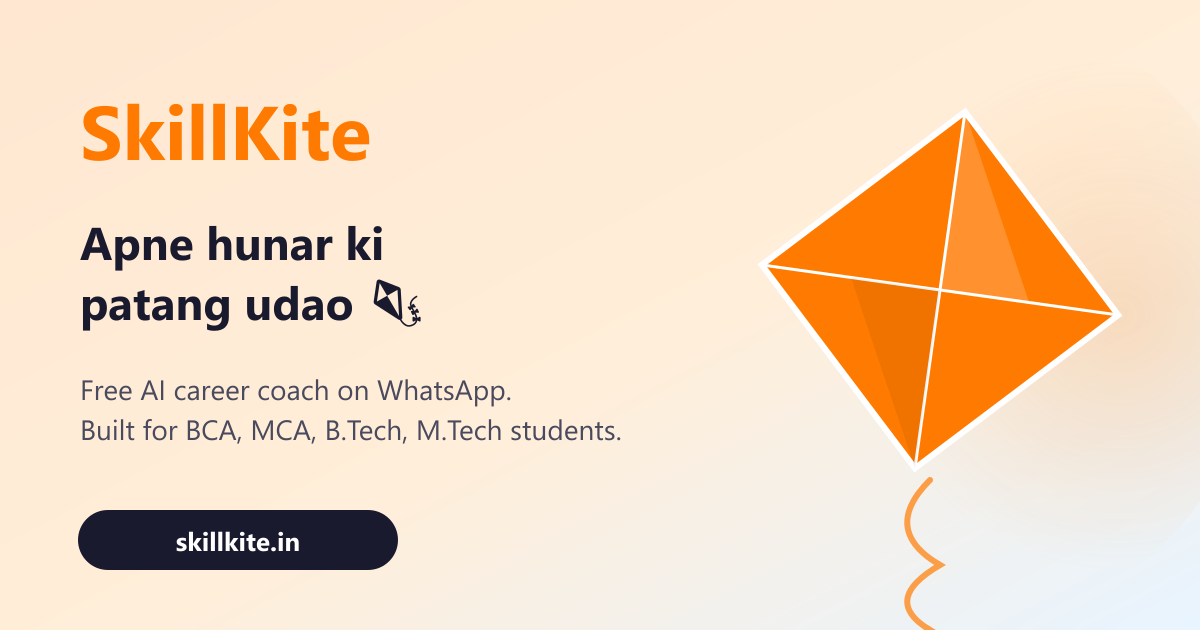
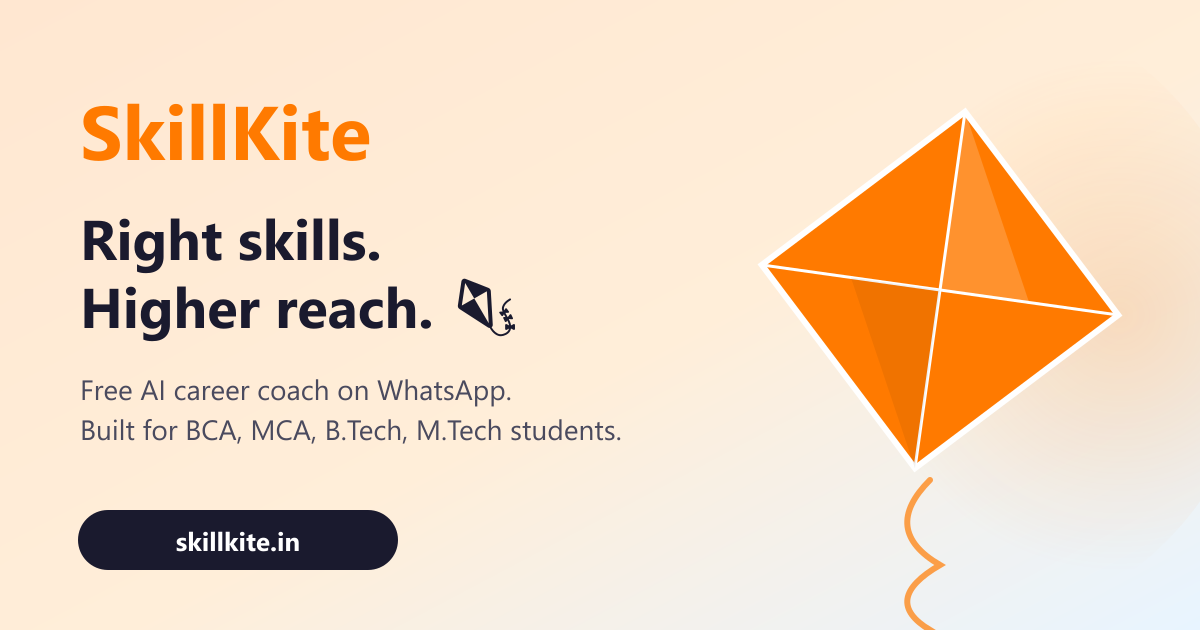
New primary tagline: 'Right skills. Higher reach.'
Three-word English tagline replaces 'Apne hunar ki patang udao' as the
brand hook. Reasoning:
- Punchy, symmetric, infinitely repeatable
- Travels across language belts (not just Hindi-speaking states)
- Reads polished in LinkedIn posts, press, CSR/B2B decks
- The kite metaphor stays implicit via existing logo + OG art

Touched:
- site/index.html: hero h1 + page title + OG meta + Twitter meta
- site/og-image.svg: tagline lines + bumped font size for the shorter copy
- site/og-image.png: regenerated 1200x630 (via sharp-cli)
- site/sample-roadmap-{en,hi}.pdf: regenerated so the PDF header subtitle
  matches the new tagline
- src/SkillKite.Infrastructure/PDF/RoadmapPdfGenerator.cs: header subtitle
- README.md: header + closing flourish
- content/linkedin-post-1.md: closing sign-off

'Apne hunar ki patang udao' is retired from primary surfaces but kept
in spirit via the kite logo and the bot's Hinglish voice. It may return
as a decorative italic accent later.

Changed region(s): [[0.0617, 0.3317, 0.4317, 0.5429]]

diff --git a/site/index.html b/site/index.html
@@ -5,23 +5,23 @@
   <meta name="viewport" content="width=device-width, initial-scale=1.0" />
   <meta name="theme-color" content="#FF7A00" />
 
-  <title>SkillKite — AI Career Coach for Indian Students</title>
-  <meta name="description" content="Free AI career coach in Hindi + English. Get a personalized career roadmap on WhatsApp in 5 minutes. Built for BCA, MCA, and Tier 2/3 students." />
+  <title>SkillKite — Right skills. Higher reach.</title>
+  <meta name="description" content="Right skills. Higher reach. Free AI career coach on WhatsApp, in Hindi and English. Personalized roadmap in 5 minutes — built for BCA, MCA, B.Tech, M.Tech students from Tier 2/3 cities." />
 
   <!-- Open Graph / social previews
        Image is a 1200x630 PNG generated from og-image.svg.
        Until skillkite.in DNS propagates we point at the pages.dev mirror so
        LinkedIn/WhatsApp/Twitter crawlers can actually fetch the assets. -->
-  <meta property="og:title" content="SkillKite — Apne hunar ki patang udao" />
+  <meta property="og:title" content="SkillKite — Right skills. Higher reach." />
   <meta property="og:description" content="Free AI career coach on WhatsApp for BCA, MCA, B.Tech, M.Tech students. Personalized career roadmap in 5 minutes." />
   <meta property="og:type" content="website" />
   <meta property="og:url" content="https://skillkite.in" />
   <meta property="og:image" content="https://skillkite.in/og-image.png" />
   <meta property="og:image:width" content="1200" />
   <meta property="og:image:height" content="630" />
-  <meta property="og:image:alt" content="SkillKite — free AI career coach on WhatsApp" />
+  <meta property="og:image:alt" content="SkillKite — Right skills. Higher reach." />
   <meta name="twitter:card" content="summary_large_image" />
-  <meta name="twitter:title" content="SkillKite — Apne hunar ki patang udao" />
+  <meta name="twitter:title" content="SkillKite — Right skills. Higher reach." />
   <meta name="twitter:description" content="Free AI career coach on WhatsApp for BCA, MCA, B.Tech, M.Tech students." />
   <meta name="twitter:image" content="https://skillkite.in/og-image.png" />
 
@@ -55,12 +55,12 @@
   <section class="hero">
     <div class="hero-inner">
       <h1>
-        <span data-en>Apne hunar ki patang udao 🪁</span>
-        <span data-hi>अपने हुनर की पतंग उड़ाओ 🪁</span>
+        <span data-en>Right skills. Higher reach. 🪁</span>
+        <span data-hi>सही skills। ऊँची उड़ान। 🪁</span>
       </h1>
       <p class="lede">
-        <span data-en>Free AI career coach on WhatsApp. Built for BCA, MCA, and small-city students. Get a personalized career roadmap in 5 minutes.</span>
-        <span data-hi>WhatsApp पर मुफ़्त AI करियर कोच। BCA, MCA और छोटे शहरों के स्टूडेंट्स के लिए। 5 मिनट में पाओ अपना personalized career roadmap।</span>
+        <span data-en>Free AI career coach on WhatsApp. Built for BCA, MCA, B.Tech, M.Tech students from small cities. Get a personalized career roadmap in 5 minutes.</span>
+        <span data-hi>WhatsApp पर मुफ़्त AI career coach। छोटे शहरों के BCA, MCA, B.Tech, M.Tech students के लिए। 5 मिनट में पाओ अपना personalized career roadmap।</span>
       </p>
       <a id="whatsapp-cta" class="cta-button" href="#" rel="noopener">
         <svg viewBox="0 0 24 24" fill="currentColor" aria-hidden="true">

diff --git a/src/SkillKite.Infrastructure/PDF/RoadmapPdfGenerator.cs b/src/SkillKite.Infrastructure/PDF/RoadmapPdfGenerator.cs
@@ -78,7 +78,7 @@ public class RoadmapPdfGenerator : IRoadmapGenerator
                 p.Header().Column(col =>
                 {
                     col.Item().Text("SkillKite").FontSize(24).Bold().FontColor(Colors.Orange.Darken2);
-                    col.Item().Text("Apne hunar ki patang udao").Italic().FontColor(Colors.Grey.Darken1);
+                    col.Item().Text("Right skills. Higher reach.").Italic().FontColor(Colors.Grey.Darken1);
                     col.Item().PaddingTop(8).LineHorizontal(1).LineColor(Colors.Orange.Lighten2);
                 });
 

diff --git a/README.md b/README.md
@@ -4,8 +4,8 @@
 
 # SkillKite
 
-**A free AI career coach on WhatsApp for Tier 2/3 India.**
-*Apne hunar ki patang udao* 🪁
+**Right skills. Higher reach.** 🪁
+*A free AI career coach on WhatsApp for Tier 2/3 India.*
 
 [![CI](https://github.com/akkyyakhilesh/SkillKite/actions/workflows/ci.yml/badge.svg?branch=main)](https://github.com/akkyyakhilesh/SkillKite/actions/workflows/ci.yml)
 [![Live site](https://img.shields.io/badge/site-skillkite.in-FF7A00?style=flat-square)](https://skillkite.pages.dev)
@@ -167,4 +167,4 @@ MIT — see [`LICENSE`](LICENSE).
 
 If this resonates and you know a small-city student who's stuck on *"what do I do after my degree?"* — please share the link with them. That's the entire point.
 
-🪁 *Apne hunar ki patang udao.*
+🪁 *Right skills. Higher reach.*

diff --git a/content/linkedin-post-1.md b/content/linkedin-post-1.md
@@ -39,7 +39,7 @@ Code: github.com/akkyyakhilesh/SkillKite (open source, built in public)
 
 If you know a BCA / MCA / B.Tech / M.Tech student stuck on "what do I do after graduation?" — please share this with them. Their feedback will shape week 2.
 
-🪁 Apne hunar ki patang udao.
+🪁 Right skills. Higher reach.
 
 #buildinpublic #aiforindia #careerguidance #edtech #bihar
 